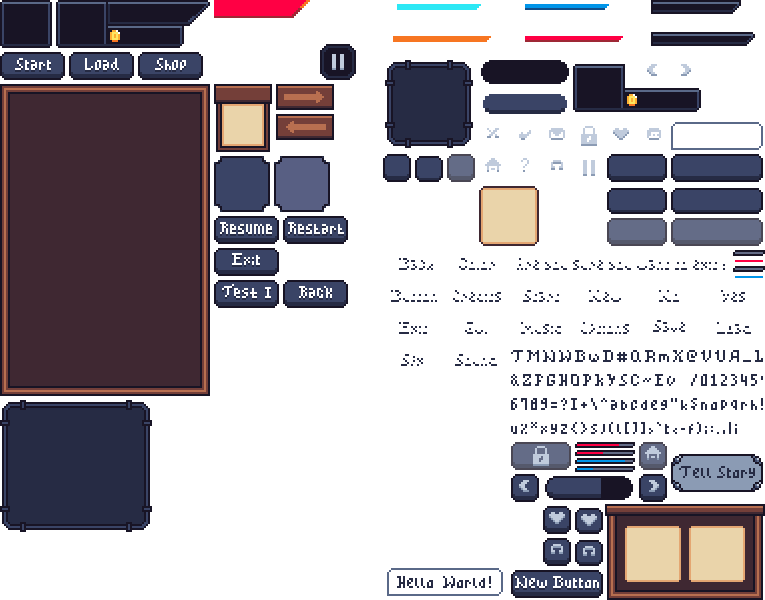
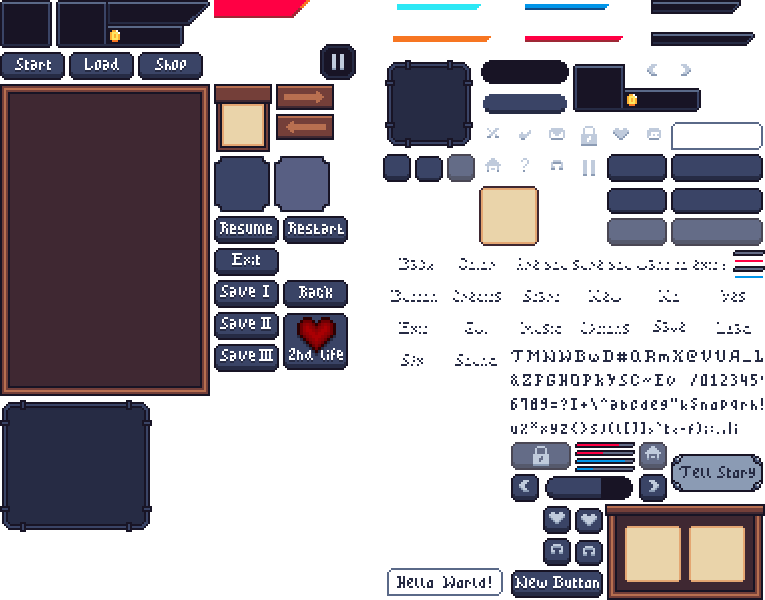
some guns

Changed region(s): [[0.2706, 0.48, 0.481, 0.63]]

diff --git a/master.py b/master.py
@@ -15,7 +15,6 @@ def update_hp_bar(bar, health_percent):
 
     if health_percent <= 0:
         set_game_over(True)
-        print(123)
 
 def update_player_balance(sprite):
         sprite.update_text(text=sprites.player_group.sprite.balance)
@@ -36,7 +35,7 @@ def give_gun(gun):
     gun.cord_y = sprites.player_group.sprite.cord_y
     sprites.player_group.sprite.take_gun()
 
-def init_sprites(saveid=0):
+def init_sprites():
     for sprite in sprites.entity_sprites:
         sprite.kill()
         sprites.all_sprites.remove(sprite)
@@ -58,7 +57,7 @@ def init_sprites(saveid=0):
     pl = sprites.Player((100, 100), inventory=player_inventory, hp_left=player_stats['player_hp'], balance=player_stats['player_balance'])
 
     m1 = sprites.Monster(center_pos=(300, 100), attack_range=50, image=ui.cut_image(ui.load_image(name='Ghoul Sprite Sheet.png', path='textures'), (3, 9), (27, 23)), gun=GUNS['Fists'], player_avoidance=False, running_speed=70, move_randomly=False)
-    m2 = sprites.Monster(center_pos=(600, 100), image=ui.cut_image(ui.load_image(name='zombie old lady.png', path='textures'), (11, 1), (10, 15)), running_speed=100)
+    m2 = sprites.Monster(center_pos=(600, 100), image=ui.cut_image(ui.load_image(name='zombie old lady.png', path='textures'), (11, 1), (10, 15)), gun=GUNS['Pistol'])
     m3 = sprites.Monster(center_pos=(650, 130), image=ui.cut_image(ui.load_image(name='zombie old lady.png', path='textures'), (11, 1), (10, 15)))
     m3 = sprites.Monster(center_pos=(700, 160), image=ui.cut_image(ui.load_image(name='zombie old lady.png', path='textures'), (11, 1), (10, 15)))
     m3 = sprites.Monster(center_pos=(650, 190), image=ui.cut_image(ui.load_image(name='zombie old lady.png', path='textures'), (11, 1), (10, 15)))
@@ -121,21 +120,27 @@ if __name__ == '__main__':
         'GrenadeLauncher': ui.cut_image(ui.load_image(name='guns_outlined_free.png', path='textures'), (64, 15), (26, 14)),
         'BallLightningLauncher': ui.cut_image(ui.load_image(name='guns_outlined_free.png', path='textures'), (99, 96), (17, 21)),
         'Infinity': ui.cut_image(ui.load_image(name='guns_outlined_free.png', path='textures'), (34, 50), (14, 12)),
-        'MinePlacer': ui.cut_image(ui.load_image(name='guns_outlined_free.png', path='textures'), (0, 115), (6, 11))
+        'MinePlacer': ui.cut_image(ui.load_image(name='guns_outlined_free.png', path='textures'), (0, 115), (6, 11)),
+        'ThroughShooter': ui.cut_image(ui.load_image(name='guns_outlined_free.png', path='textures'), (32, 84), (22, 9)),
+        'Shotgun': ui.cut_image(ui.load_image(name='guns_outlined_free.png', path='textures'), (0, 101), (31, 9)),
+        'M4A4': ui.cut_image(ui.load_image(name='guns_outlined_free.png', path='textures'), (65, 67), (27, 13)),
     }
 
     GUNS = {
         'None': None,
         'FirstGun': sprites.Gun(name='FirstGun', center_pos=(300, 200), ammo=-1, image=GUN_TEXTURES['Pistol'], is_raised=True, damage=30),
         'Ak47': sprites.Gun(name='Ak47', image=GUN_TEXTURES['Ak47'], center_pos=(200, 200), ammo=999, damage=100, bullet_color=(255, 255, 255), bullet_size=(5, 20), fire_rate=150, shooting_accuracy=0.95),
-        'Pistol': sprites.Gun(name='pistol', center_pos=(300, 200), ammo=-1, image=GUN_TEXTURES['Pistol']),
+        'Pistol': sprites.Gun(name='pistol', center_pos=(300, 200), ammo=-1, image=GUN_TEXTURES['Pistol'], damage=10),
         'Fists': sprites.Gun(name='Fists', ammo=-1, target_group=sprites.player_group, damage=15, image=GUN_TEXTURES['Transperent'], bullet_image=GUN_TEXTURES['Transperent']),
         'Uzi' : sprites.Gun(name='Uzi', fire_rate=100, shooting_accuracy=0.6, damage=5, ammo=30, reload_time=2000, image=GUN_TEXTURES['Uzi']),
         'Sniper': sprites.Gun(name='Sniper', fire_rate=2000, damage=100, ammo=20, reload_time=3000, bullet_color=(255, 128, 128), bullet_speed=600, image=GUN_TEXTURES['Sniper']),
         'GrenadeLauncher': sprites.Gun(name='GrenadeLauncher', fire_rate=1000, shooting_accuracy=0.8, damage=30, damage_type='splash', splash_damage=30, splash_radius=100, bullet_color=(64, 64, 196), image=GUN_TEXTURES['GrenadeLauncher']),
         'BallLightningLauncher': sprites.Gun(name='BallLightningLauncher', fire_rate=100, damage=100, ammo=1, reload_time=5000, destroy_bullets=False, bullet_color=(128, 128, 255), bullet_speed=50, bullet_size=(30, 30), image=GUN_TEXTURES['BallLightningLauncher']),
         'Infinity': sprites.Gun(name='Infinity', fire_rate=300, damage=30, bullet_color=(196, 196, 64), ammo=-1, image=GUN_TEXTURES['Infinity']),
-        'MinePlacer': sprites.Gun(name='MinePlacer', bullet_color=(196, 128, 64), damage=100, bullet_speed=0, ammo=1, reload_time=10, bullet_size=(20, 20), image=GUN_TEXTURES['MinePlacer'])
+        'MinePlacer': sprites.Gun(name='MinePlacer', bullet_color=(196, 128, 64), damage=100, bullet_speed=0, ammo=1, reload_time=10, bullet_size=(20, 20), image=GUN_TEXTURES['MinePlacer']),
+        'ThroughShooter': sprites.Gun(name='ThroughShooter', bullet_color=(64, 64, 128), damage=2, ammo=30, reload_time=4000, image=GUN_TEXTURES['ThroughShooter'], destroy_bullets=False),
+        'Shotgun': sprites.Shotgun(name='Shotgun', bullet_color=(64, 64, 128), damage=5, ammo=7, shooting_accuracy=0.7, reload_time=2000, image=GUN_TEXTURES['Shotgun'], fire_rate=500),
+        'M4A4': sprites.Gun(name='M4A4', bullet_color=(128, 128, 128), damage=15, ammo=20, reload_time=3000, image=GUN_TEXTURES['M4A4'], bullet_speed=350, fire_rate=230),
     }
 
     # Основные спрайты
@@ -145,7 +150,6 @@ if __name__ == '__main__':
         # Пушка, стреляющая шаровыми молниями, Пушка с маленьким уроном, но который наносится всех мобам
         # Расстановщик мин, Пушка с бесконечными патронами
     init_sprites()
-    give_gun(GUNS['Ak47'])
     
         # Ui
     fps = ui.Text(pos=(5, 5), sprite_group=sprites.all_sprites)
@@ -167,7 +171,12 @@ if __name__ == '__main__':
     BallLightningLauncher = ui.ShopItems(GUNS['BallLightningLauncher'], 1)
     Infinity = ui.ShopItems(GUNS['Infinity'], 1)
     MinePlacer = ui.ShopItems(GUNS['MinePlacer'], 1)
-    shop.add_item(Uzi, Sniper, GrenadeLauncher, BallLightningLauncher, Infinity, MinePlacer)
+    ThroughShooter = ui.ShopItems(GUNS['ThroughShooter'], 1)
+    Shotgun = ui.ShopItems(GUNS['Shotgun'], 1)
+    FirstGun = ui.ShopItems(GUNS['FirstGun'], 1)
+    M4A4 = ui.ShopItems(GUNS['M4A4'], 1)
+    Ak47 = ui.ShopItems(GUNS['Ak47'], 1)
+    shop.add_item(FirstGun, Uzi, Sniper, GrenadeLauncher, BallLightningLauncher, Infinity, MinePlacer, ThroughShooter, Shotgun, M4A4, Ak47)
     # Респавн мобов для тестов
     respawn_monsters = pygame.USEREVENT + 3
     pygame.time.set_timer(respawn_monsters, 10000)
@@ -254,21 +263,27 @@ if __name__ == '__main__':
     # Loading menu
     loading_menu_background = ui.Img(pos=(250, 110), image_pos=(0, 400), image_size=(152, 132), sprite_group=(loading_menu_sprites), scale=2)
     save1 = ui.Buttons(pos=(335, 150), image_pos=(214, 280), image_size=(65, 28), sprite_group=(loading_menu_sprites), scale=2)
-    save2 = ui.Buttons(pos=(335, 210), image_pos=(214, 280), image_size=(65, 28), sprite_group=(loading_menu_sprites), scale=2)
-    save3 = ui.Buttons(pos=(335, 270), image_pos=(214, 280), image_size=(65, 28), sprite_group=(loading_menu_sprites), scale=2)
+    save2 = ui.Buttons(pos=(335, 210), image_pos=(214, 312), image_size=(65, 28), sprite_group=(loading_menu_sprites), scale=2)
+    save3 = ui.Buttons(pos=(335, 270), image_pos=(214, 344), image_size=(65, 28), sprite_group=(loading_menu_sprites), scale=2)
     back_to_main_menu_button = ui.Buttons(pos=(335, 380), image_pos=(283, 280), image_size=(65, 28), sprite_group=(loading_menu_sprites), scale=2)
 
     # game lost
-
     red_bg = pygame.sprite.Sprite(game_over_sprites)
     red_bg.image = pygame.Surface((1920, 1080), pygame.SRCALPHA, 32)
     red_bg.rect = black_bg.image.get_rect()
     red_bg.image.set_alpha(128)
     pygame.draw.rect(red_bg.image, (64, 0, 0), (0, 0, 1920, 1080))
 
-    restart_button = ui.Buttons(pos=(345, 130), image_pos=(283, 216), image_size=(65, 28), sprite_group=(game_over_sprites), scale=1.5)
-    exit_button_on_game_over = ui.Buttons(pos=(345, 180), image_pos=(214, 248), image_size=(65, 28), sprite_group=(game_over_sprites), scale=1.5)
-    info1 = ui.Text(pos=(200, 290), sprite_group=game_over_sprites, text='GAME OVER', size=64)
+    restart_button = ui.Buttons(pos=(340, 210), image_pos=(283, 216), image_size=(65, 28), sprite_group=(game_over_sprites), scale=1.5)
+    exit_button_on_game_over = ui.Buttons(pos=(340, 255), image_pos=(214, 248), image_size=(65, 28), sprite_group=(game_over_sprites), scale=1.5)
+    gameovertext = ui.Text(pos=(200, 120), sprite_group=game_over_sprites, text='GAME OVER', size=64)
+
+    
+
+
+
+
+
 
 
     game_started = False
@@ -297,10 +312,13 @@ if __name__ == '__main__':
                             set_loading_menu_opened(False)
                         if save1.mouse_clicked():
                             change_save(1)
+                            set_loading_menu_opened(False)
                         if save2.mouse_clicked():
                             change_save(2)
+                            set_loading_menu_opened(False)
                         if save3.mouse_clicked():
                             change_save(3)
+                            set_loading_menu_opened(False)
             current_save.update_text(f"save {current_save_id}")
             main_menu_group.draw(screen)
 

diff --git a/sprites.py b/sprites.py
@@ -212,9 +212,11 @@ class Gun(pygame.sprite.Sprite):
         self.ammo_amount += self.ammo
 
     def rotate(self, target):
-        self.image = pygame.transform.rotate(
-            self.rotate_image, self.math_angle(target) - 90)
-
+        if self.math_angle(target) < 0:
+            self.image = pygame.transform.flip(pygame.transform.rotate(self.rotate_image, -self.math_angle(target) + 90), False, True)
+        else:
+            self.image = pygame.transform.rotate(self.rotate_image, self.math_angle(target) - 90)
+            
     def math_angle(self, target):
         rel_x, rel_y = target[0] - self.cord_x - \
             self.rotate_image.get_width() / 2, target[1] - \
@@ -237,6 +239,26 @@ class Gun(pygame.sprite.Sprite):
             self.cord_y = player_group.sprite.cord_y + 20
 
             self.rotate(target=pygame.mouse.get_pos())
+
+class Shotgun(Gun):
+    def __init__(self, is_raised=False, target_group=monster_sprites, name='gun', \
+        can_be_raised=True, center_pos=(0, 0), image=None, destroy_bullets=True, damage_type='point', \
+            bullet_image=None, bullet_color=(128, 128, 128), bullet_size=(10, 10), bullet_speed=300, \
+                fire_rate=300, shooting_accuracy=1, damage=0, splash_damage=10, splash_radius=150, ammo=10, reload_time=3000):
+        super().__init__(is_raised, target_group, name, can_be_raised, center_pos, image, destroy_bullets, \
+            damage_type, bullet_image, bullet_color, bullet_size, bullet_speed, fire_rate, shooting_accuracy, \
+                damage, splash_damage, splash_radius, ammo, reload_time)
+    
+    def shoot(self, target_pos):
+        if not self.is_reloading_now:
+            if self.ammo_amount != 0:
+                self.ammo_amount -= 1
+                for _ in range(5):
+                    self.bullet_speed = random.randint(250, 350)
+                    Bullet(self, target_pos)
+            else:
+                self.is_reloading_now = True
+                pygame.time.set_timer(self.reload_event, self.reload_time)
 
 
 class Bullet(pygame.sprite.Sprite):
@@ -334,9 +356,14 @@ class Monster(pygame.sprite.Sprite):
         self.add(monster_sprites, collide_group, entity_sprites)
 
         if gun == None:
-            self.active_gun = Gun(name='bad pistol', damage=5, can_be_raised=False, bullet_color=(random.randint(96, 196), random.randint(96, 196), random.randint(96, 196)), fire_rate=1000, ammo=-1, shooting_accuracy=0.9, target_group=player_group)
+            self.active_gun = Gun(name='bad pistol', damage=0, can_be_raised=False, bullet_color=(random.randint(96, 196), random.randint(96, 196), random.randint(96, 196)), fire_rate=1000, ammo=-1, shooting_accuracy=0.9, target_group=player_group)
         else:
             self.active_gun = gun
+        self.active_gun.damage = 0
+        self.active_gun.can_be_raised = False
+        self.active_gun.ammo = -1
+        self.active_gun.target_group = player_group
+        self.active_gun.add(all_sprites, gun_sprites)
 
         self.player_avoidance = player_avoidance
         self.attack_range = attack_range

diff --git a/ui.py b/ui.py
@@ -246,4 +246,6 @@ class Inventory():
             if cell != None:
                 if cell == sprites.player_group.sprite.active_gun:
                     self.buttons[i].update_image(image='main_ui.png', image_pos=(274, 156), image_size=(56, 56))
-                self.buttons[i].image.blit(cell.rotate_image, cell.rotate_image.get_rect())
+                gun_rect = 29 - cell.rotate_image.get_rect()[2] / 2, 29 - cell.rotate_image.get_rect()[3] / 2, \
+                    cell.rotate_image.get_rect()[2], cell.rotate_image.get_rect()[3] 
+                self.buttons[i].image.blit(cell.rotate_image, gun_rect)
